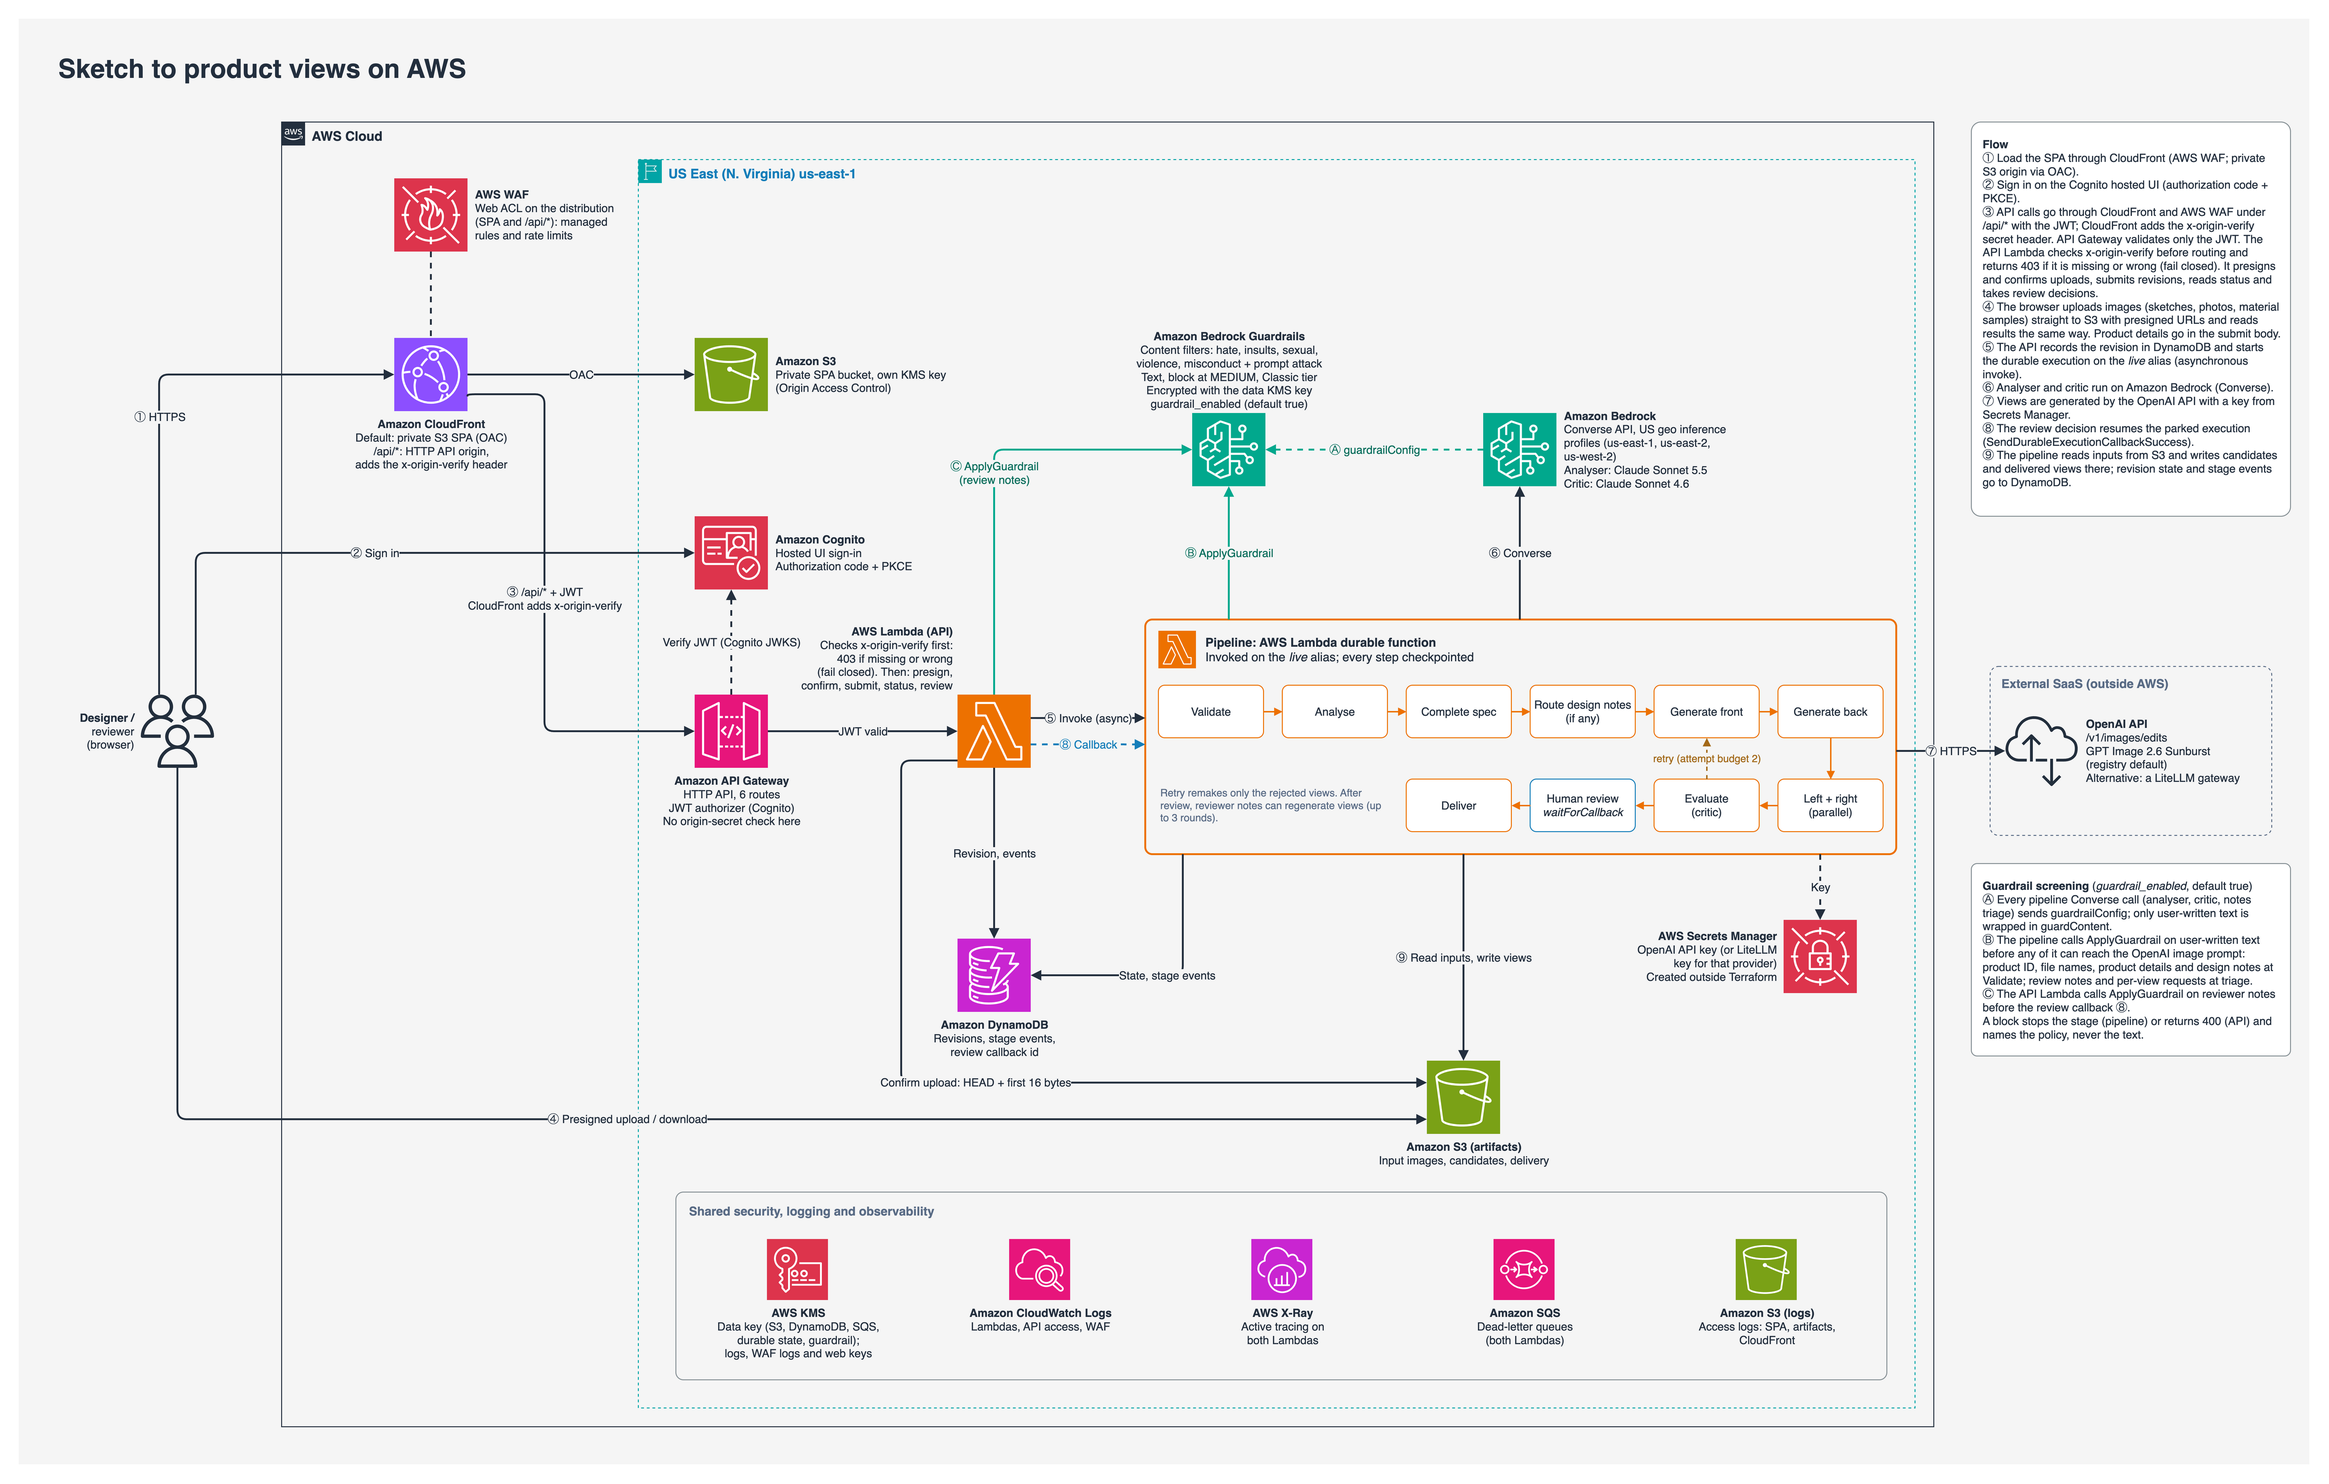
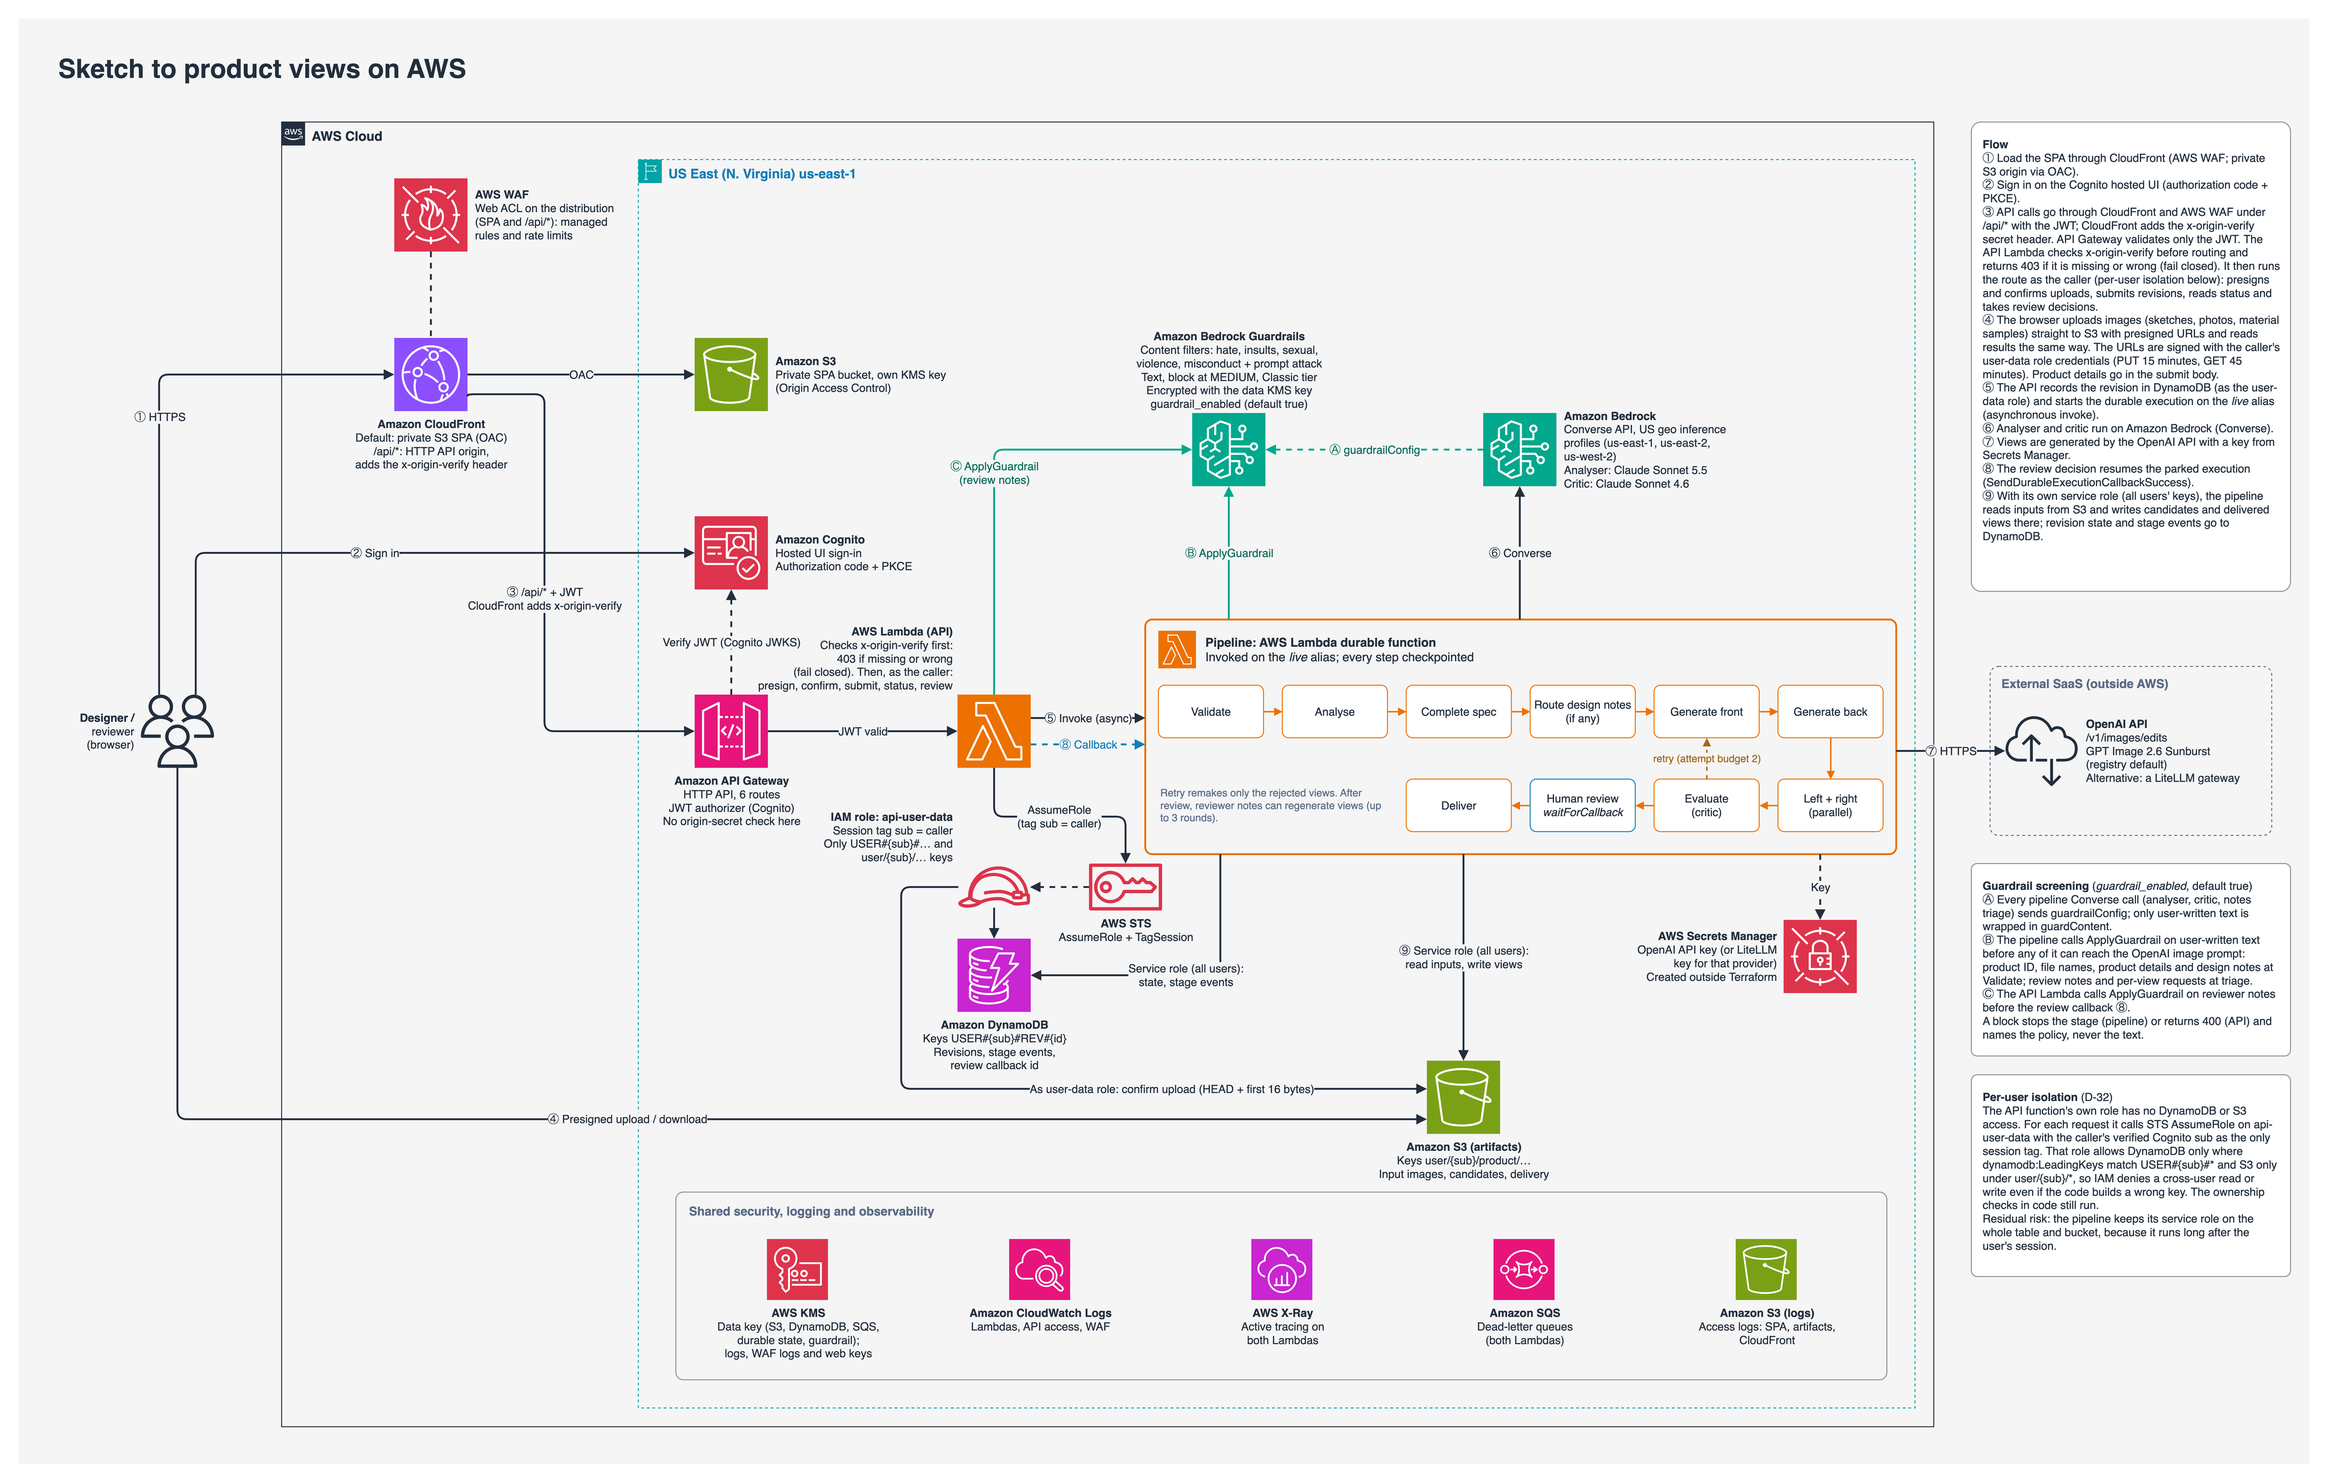
docs: record per-user isolation decision and update diagram

diff --git a/docs/spec/11-infrastructure.md b/docs/spec/11-infrastructure.md
@@ -35,7 +35,7 @@ Reference implementation: Terraform in `infra/` (modules `security`, `guardrail`
 | Pipeline DLQ | SQS, SSE-KMS (data key), 14-day retention; `dead_letter_config` on the pipeline function; role `sqs:SendMessage` on it | durable functions support a DLQ but not destinations, and a failed async execution is not retried ([retries](https://docs.aws.amazon.com/lambda/latest/dg/durable-execution-sdk-retries.html#durable-invocation-retries)); the handler records stage failures itself, so the queue gets unhandled errors, timeouts and stopped executions |
 | Pipeline package | handler bundle plus the image library's linux-arm64 native binary in the same zip; plan fails if the binary is missing | upload validation and the critic's image preparation decode images natively |
 | API function | `nodejs24.x`, arm64, 512 MB, timeout 30 s, X-Ray, JSON logs, explicit log group, SQS DLQ (KMS, 14-day retention) | thin; a failed async event is kept for redrive |
-| HTTP API | 7 enumerated routes, all with the JWT authorizer (issuer = user pool, audience = app client); Lambda proxy integration, payload format 2.0, 30 s; the function refuses requests without the CloudFront origin secret (two `random_password` slots in its environment); CORS origins = `allowed_web_origins` only (cross-origin callers such as the local dev SPA; the site is same-origin), methods `GET POST OPTIONS`, headers `authorization content-type if-none-match`, expose `etag`, no credentials, max-age 300; default stage throttling burst 20, rate 10; JSON access logs (request id, IP, route, status, length, integration error, time) | |
+| HTTP API | 6 enumerated routes, all with the JWT authorizer (issuer = user pool, audience = app client); Lambda proxy integration, payload format 2.0, 30 s; the function refuses requests without the CloudFront origin secret (two `random_password` slots in its environment); CORS origins = `allowed_web_origins` only (cross-origin callers such as the local dev SPA; the site is same-origin), methods `GET POST OPTIONS`, headers `authorization content-type if-none-match`, expose `etag`, no credentials, max-age 300; default stage throttling burst 20, rate 10; JSON access logs (request id, IP, route, status, length, integration error, time) | |
 | Web hosting | private S3 bucket behind CloudFront with Origin Access Control; second origin = the HTTP API (`https-only`, TLS 1.2, 30 s read timeout, `x-origin-verify` custom header) on behaviour `/api/*`: all methods, `Managed-CachingDisabled`, origin request policy forwarding `authorization`, `content-type`, `if-none-match`, `origin`, the CORS preflight headers and all query strings, no cookies, no `Host`; no custom error responses (they would rewrite the API's 403/404); bucket policy limited to that distribution, viewer TLS 1.2 minimum only with a custom domain and an ACM certificate (`web_domain_name`, `web_acm_certificate_arn`; the default `*.cloudfront.net` certificate always uses the TLSv1 policy), HTTP/2 and 3, access logs | SPA and the only public path of the API |
 | Response headers | CSP `default-src 'self'`, `img-src` and `connect-src` include the artifacts bucket origin, `connect-src` `'self'` (the API) and the Cognito domains; HSTS 1 year; `X-Frame-Options DENY`; nosniff; strict-origin-when-cross-origin | |
 | Bedrock guardrail (when `guardrail_enabled`) | `aws_bedrock_guardrail`: content filters `HATE`, `INSULTS`, `SEXUAL`, `VIOLENCE`, `MISCONDUCT` at `MEDIUM` on input and output, `PROMPT_ATTACK` at `MEDIUM` on input with output strength `NONE`; text modality, action `BLOCK`; Classic tier; blocked-input and blocked-output messages; `kms_key_arn` = data key. `aws_bedrock_guardrail_version` (kept on destroy, replaced when the guardrail changes) | screens every free-text input ([03](03-orchestration.md#guardrail-screening)); a pinned version so an edit reaches running functions only through a new version |
@@ -71,12 +71,26 @@ Pipeline role:
 | Provider key | read of the secret value | only the configured OpenAI and/or gateway key secret; no statement when unset |
 | Guardrail | `bedrock:ApplyGuardrail` | the guardrail ARN; no statement when disabled. Needed for Converse with `guardrailConfig` as well as for `ApplyGuardrail` ([guardrail permissions](https://docs.aws.amazon.com/bedrock/latest/userguide/guardrails-permissions.html)); the guardrail's data-key `kms:Decrypt` is the Data key statement |
 
-API role: own logs; the same table actions; `s3:GetObject`/`PutObject` on `bucket/*` (presigning
-signs with the role); data key; `lambda:InvokeFunction` on the **alias ARN only**;
+API role: own logs; **no DynamoDB or S3 access**; `sts:AssumeRole` and `sts:TagSession` on the
+user-data role only; data key (environment variables, DLQ); `lambda:InvokeFunction` on the **alias ARN only**;
 `lambda:SendDurableExecutionCallbackSuccess`, `…Failure`, `…Heartbeat` on the unqualified
 function ARN and `:*` (a parked execution may run on an older version than `live`);
 `sqs:SendMessage` on its DLQ; X-Ray; `bedrock:ApplyGuardrail` on the guardrail ARN when enabled (it
 screens review notes).
+
+User-data role (`…-api-user-data`), assumed by the API per request with the caller's `sub` as the
+only session tag ([D-32](13-decisions.md)):
+
+| Statement | Actions | Resources and conditions |
+|---|---|---|
+| Trust | `sts:AssumeRole`, `sts:TagSession` | principal: the API role only; `aws:RequestTag/sub` present and non-empty; `aws:TagKeys` only `sub` |
+| OwnRevisions | `dynamodb:GetItem`, `Query`, `PutItem`, `UpdateItem` | the table, where every `dynamodb:LeadingKeys` matches `USER#${aws:PrincipalTag/sub}#*`, and `dynamodb:LeadingKeys` is present (no Scan) |
+| OwnArtifacts | `s3:GetObject`, `s3:PutObject` | `bucket/user/${aws:PrincipalTag/sub}/*` |
+| Data key | `kms:Decrypt`, `GenerateDataKey`, `DescribeKey` | data key |
+
+`max_session_duration` is one hour, the cap for a role assumed by a role. The function runs with
+`STORE_REQUIRES_USER_SCOPE=true`: a store call outside a user scope throws rather than use the
+function's own credentials.
 
 The guardrail is encrypted with the data key, whose key policy delegates to IAM through the
 account statement: the identity that creates the guardrail needs `kms:Decrypt`,

diff --git a/infra/README.md b/infra/README.md
@@ -138,6 +138,51 @@ outside a VPC and reach `api.openai.com` over the default internet egress.
 
 Create users with `aws cognito-idp admin-create-user`; self sign-up is off.
 
+## Per-user data access
+
+The API never reads DynamoDB or S3 with its own role. For each request it assumes
+`<name>-api-user-data` with the caller's Cognito `sub` as a session tag, and that role only allows
+keys under that user (`USER#{sub}#…` in the table, `user/{sub}/…` in the bucket). See
+[D-32](../docs/spec/13-decisions.md) and `shared/src/store/scope.ts`. The pipeline keeps its own
+service role (D-32, residual risk).
+
+**Check it after `terraform apply`.** Both checks only read: the simulator evaluates the policy
+without making a request, and CloudTrail shows what happened.
+
+1. The policy, for two users (replace `A` and `B` with two `sub` values, or any two strings):
+
+   ```bash
+   ROLE=$(terraform output -raw api_user_data_role_arn)
+   TABLE=$(terraform output -raw table_arn)
+   BUCKET=$(terraform output -raw artifacts_bucket_arn)
+
+   sim() { # $1 = tag value, $2 = action, $3 = resource, then extra context entries
+     aws iam simulate-principal-policy --policy-source-arn "$ROLE" \
+       --action-names "$2" --resource-arns "$3" \
+       --context-entries "ContextKeyName=aws:PrincipalTag/sub,ContextKeyValues=$1,ContextKeyType=string" "${@:4}" \
+       --query 'EvaluationResults[0].EvalDecision' --output text
+   }
+   leading() { echo "ContextKeyName=dynamodb:LeadingKeys,ContextKeyValues=$1,ContextKeyType=stringList"; }
+
+   sim A dynamodb:GetItem "$TABLE" "$(leading 'USER#A#REV#r1')"  # expect: allowed
+   sim A dynamodb:GetItem "$TABLE" "$(leading 'USER#B#REV#r1')"  # expect: implicitDeny
+   sim A dynamodb:Scan    "$TABLE"                               # expect: implicitDeny
+   sim A s3:GetObject "$BUCKET/user/A/product/p/x.png"           # expect: allowed
+   sim A s3:GetObject "$BUCKET/user/B/product/p/x.png"           # expect: implicitDeny
+   ```
+
+   The two `allowed` lines are the control: if they also come back `implicitDeny`, the simulator
+   did not substitute the `${aws:PrincipalTag/sub}` variable and the result says nothing; use
+   check 2.
+
+2. A real run with two users: sign in as each, submit a run as user A, and open user A's
+   `#/r/{id}` as user B (404). In CloudTrail, each request's `AssumeRole` on `<name>-api-user-data`
+   carries `principalTags.sub` for the signed-in user, and the DynamoDB and S3 calls that follow
+   are made by that session.
+
+**Breaking change.** Revisions created before the owner prefix keep their old keys and are no
+longer reachable through the API; their objects stay in the bucket.
+
 ## Cognito
 
 `cognito_threat_protection` (default `ENFORCED`) sets the user pool's threat protection

diff --git a/docs/spec/13-decisions.md b/docs/spec/13-decisions.md
@@ -247,6 +247,33 @@ checks do not see SRP sign-ins; MFA stays optional (see
 sample leaves to the deployer). The Plus plan costs more per monthly active user
 ([pricing](https://aws.amazon.com/cognito/pricing/)).
 
+**D-32. The API reaches user data only through a per-user, session-tagged role.** Every revision
+key starts with its owner's Cognito `sub` (`USER#{sub}#REV#{id}`) and every artifact key with
+`user/{sub}/`. The API function's own role has no DynamoDB or S3 access; for each request it
+assumes `…-api-user-data` with the caller's verified `sub` as the only session tag, and that
+role allows DynamoDB only where `dynamodb:LeadingKeys` matches `USER#${aws:PrincipalTag/sub}#*`
+and S3 only under `user/${aws:PrincipalTag/sub}/*`. Presigned URLs are signed with those
+credentials. *Why:* per-user isolation was enforced only by an ownership check in code, so one
+missing check on a new route would have exposed every user's data; now IAM denies a cross-user
+read or write even when the code builds the wrong key (security review). This is the
+token-vending-machine pattern from AWS SaaS guidance, server-side: the browser never holds AWS
+credentials ([session tags](https://docs.aws.amazon.com/IAM/latest/UserGuide/id_session-tags.html),
+[DynamoDB fine-grained access control](https://docs.aws.amazon.com/amazondynamodb/latest/developerguide/specifying-conditions.html)).
+The ownership predicates still run, as a second check. Credentials are cached per user for at
+most 10 minutes and only while they outlive the longest presigned URL (45 minutes): a URL dies
+with the credentials that signed it, and a role assumed by a role lasts at most one hour
+([S3 presigned URLs](https://docs.aws.amazon.com/AmazonS3/latest/userguide/using-presigned-url.html),
+[role chaining](https://docs.aws.amazon.com/IAM/latest/UserGuide/id_roles_use_switch-role-console.html)).
+The status ETag changes every 10 minutes so an idle tab is handed fresh URLs. *Rejected:* a
+Cognito identity pool giving the browser AWS credentials (adds credentials to the browser for no
+gain); an in-code check only (no backstop). *Breaking:* revisions written before the owner
+prefix (and the earlier ownerless ones) are no longer reachable through the API.
+*Residual risk:* **the pipeline keeps its service role** with access to the whole table and
+bucket: it runs for days after the user's session has ended, and no AWS reference pattern covers
+per-user credentials for such a workflow, so it was not built. The pipeline builds every key from
+the owner in its payload and refuses an input outside that owner's prefix, but that is a check in
+code, not IAM.
+
 ## Open questions
 
 | # | Question | Notes |

diff --git a/README.md b/README.md
@@ -149,7 +149,7 @@ the entry lists. Deployment defaults are Terraform variables in your tfvars file
 The HTTP API (Amazon API Gateway, JWT authorizer on Amazon Cognito) is served at `/api/*` on the
 web UI's CloudFront distribution, behind the same AWS WAF web ACL; the web UI calls it on its own
 origin (output `api_url`). The `execute-api` endpoint refuses requests that did not come through
-CloudFront. Seven routes ([`api/src/handler.ts`](api/src/handler.ts)):
+CloudFront. Six routes ([`api/src/handler.ts`](api/src/handler.ts)):
 
 | Route | Purpose |
 | --- | --- |
@@ -278,6 +278,14 @@ state bucket yourself.
 ## Security
 
 - Every API route needs a Cognito JWT. Self sign-up is off; MFA (TOTP) is optional.
+- **Each user reaches only their own data, enforced by IAM.** Every revision and artifact key
+  starts with the owner's Cognito `sub`. The API function's own role cannot read DynamoDB or S3:
+  for each request it assumes a user-data role with the caller's `sub` as a session tag, and that
+  role only allows keys under that `sub`, so a cross-user read is denied by IAM, not only by the
+  code ([D-32](docs/spec/13-decisions.md); how to check it in
+  [infra/README.md](infra/README.md#per-user-data-access)). The pipeline keeps a service role
+  over all users' data, because it runs for days after the user has left; it builds every key
+  from the run's owner and refuses inputs outside that owner's prefix.
 - **The API is behind CloudFront and AWS WAF.** Browsers call `/api/*` on the web UI's
   distribution. CloudFront adds a secret header (generated by Terraform, kept in the API
   function's KMS-encrypted environment) that the function checks with a constant-time compare
